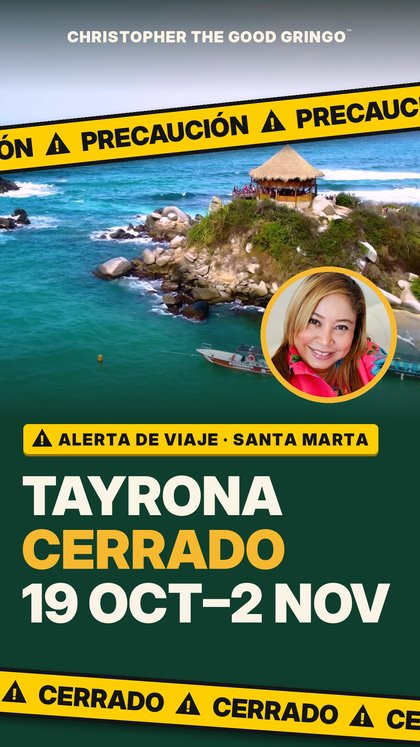
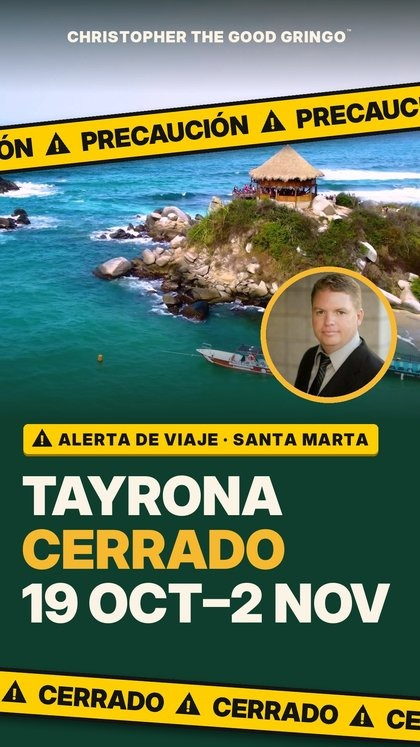
Remove Mabys and Nequi from the site
Spanish version shows Christopher's info, photo and contact. Removed her
team card, photo, Porthos mention and the Nequi payment sections; swapped
her face out of the Spanish Tayrona thumbnail.

Claude-Session: https://claude.ai/code/session_01LosVhuhA7YJBGxLwPWcAso

Changed region(s): [[0.619, 0.3695, 0.9286, 0.5542], [0.9595, 0.9545, 0.9905, 0.9853], [0.1857, 0.9237, 0.2167, 0.9545]]

diff --git a/index.html b/index.html
@@ -93,8 +93,8 @@ header .btn { padding: 9px 16px; font-size: .9rem; }
 
 /* Sections */
 section.block { padding-block: 72px; }
-#nequi-en, #paypal-es { padding-top: 8px; }
-#paypal, #nequi { padding-bottom: 32px; }
+
+
 .hsoc { width: 38px; height: 38px; border-radius: 10px; background: var(--cordillera); color: var(--mango); border: 1px solid rgba(245, 184, 46, .45); }
 .hsoc:hover { background: var(--mango); color: var(--cordillera); }
 .hsoc svg { width: 20px; height: 20px; }
@@ -204,11 +204,11 @@ a.claim:hover { border-color: var(--mango); background: rgba(245, 184, 46, .10);
 .c button:hover { border-color: var(--mango); }
 .contact .cards { grid-template-columns: repeat(3, minmax(0, 1fr)); }
 @media (max-width: 1100px) { .contact .cards { grid-template-columns: repeat(2, minmax(0, 1fr)); } }
-#v-email, #v-email2 { font-size: .86rem; }
+#v-email { font-size: .86rem; }
 .ph { display: grid; gap: 4px; padding-top: 8px; }
 .ph + .ph { border-top: 1px dashed var(--line); margin-top: 6px; padding-top: 12px; }
 html[lang="es"] .ph-es { order: 1; border-top: 0; margin-top: 0; padding-top: 8px; }
-html[lang="es"] .ph-en, html[lang="es"] [data-only="en"] { display: none; }
+html[lang="es"] [data-only="en"] { display: none; }
 html:not([lang="es"]) .ph-es, html:not([lang="es"]) [data-only="es"] { display: none; }
 html:not([lang="es"]) .ph-en { border-top: 0; margin-top: 0; }
 html[lang="es"] .vid, html[lang="es"] .shorts a { pointer-events: none; position: relative; }
@@ -234,18 +234,18 @@ html[lang="es"] .vid::after, html[lang="es"] .shorts a::after { content: "Próxi
 .act-gold { background: var(--mango); color: var(--cordillera); border-color: var(--mango); }
 .act:hover { border-color: var(--mango); }
 .soon-pill { justify-self: start; margin-top: 6px; padding: 8px 16px; font-size: .85rem; font-weight: 700; border-radius: 999px; border: 1px dashed var(--line); color: var(--muted); }
-.nequi .pay { display: grid; grid-template-columns: minmax(0,1.1fr) minmax(0,1fr); gap: 16px; align-items: start; }
-.nequi .num { border: 1px solid var(--line); border-radius: var(--r); padding: 22px; display: grid; gap: 8px; }
-.nequi .num .val { font-size: 1.9rem; font-weight: 800; letter-spacing: .02em; }
-.nequi .num p { margin: 0; opacity: .85; }
-.nequi .num button { justify-self: start; font: 700 .9rem var(--body); background: var(--mango); color: var(--cordillera); border: 0; border-radius: 999px; padding: 10px 20px; cursor: pointer; }
-.nequi .acts button { background: transparent; color: var(--fg); border: 1px solid var(--line); font-size: .85rem; padding: 8px 16px; }
-.nequi .why { display: grid; gap: 16px; }
-.nequi .why > div { border: 1px solid var(--line); border-radius: var(--r); padding: 20px; }
-.nequi .why h3 { margin: 6px 0 6px; font-size: 1.15rem; }
-.nequi .why p { margin: 0; opacity: .85; }
-.nequi .why .eyebrow { color: var(--arepa); }
-@media (max-width: 800px) { .nequi .pay { grid-template-columns: 1fr; } }
+.pay-sec .pay { display: grid; grid-template-columns: minmax(0,1.1fr) minmax(0,1fr); gap: 16px; align-items: start; }
+.pay-sec .num { border: 1px solid var(--line); border-radius: var(--r); padding: 22px; display: grid; gap: 8px; }
+.pay-sec .num .val { font-size: 1.9rem; font-weight: 800; letter-spacing: .02em; }
+.pay-sec .num p { margin: 0; opacity: .85; }
+.pay-sec .num button { justify-self: start; font: 700 .9rem var(--body); background: var(--mango); color: var(--cordillera); border: 0; border-radius: 999px; padding: 10px 20px; cursor: pointer; }
+.pay-sec .acts button { background: transparent; color: var(--fg); border: 1px solid var(--line); font-size: .85rem; padding: 8px 16px; }
+.pay-sec .why { display: grid; gap: 16px; }
+.pay-sec .why > div { border: 1px solid var(--line); border-radius: var(--r); padding: 20px; }
+.pay-sec .why h3 { margin: 6px 0 6px; font-size: 1.15rem; }
+.pay-sec .why p { margin: 0; opacity: .85; }
+.pay-sec .why .eyebrow { color: var(--arepa); }
+@media (max-width: 800px) { .pay-sec .pay { grid-template-columns: 1fr; } }
 @media (max-width: 800px) { .cards, .contact .cards { grid-template-columns: 1fr; } }
 footer a { color: var(--band-fg); }
 
@@ -274,7 +274,7 @@ footer b { color: var(--band-fg); font-family: var(--display); }
       <span>The Good Gringo™</span>
     </a>
     <nav class="links" aria-label="Sections">
-      <a data-only="es" href="#proximamente">Videos</a><a data-only="es" href="#nequi">Pagos</a><a data-only="en" href="#videos" data-i18n="t1">Videos</a><a data-only="en" href="#guide" data-i18n="t2">Guides</a><a data-only="en" href="#merch" data-i18n="t3">Merch</a><a data-only="en" href="#paypal">Payments</a><a href="#about" data-i18n="t4">About</a><a data-only="en" href="/team/">Team</a><a data-only="es" href="/team/">Equipo</a><a href="#contact" data-i18n="t5">Contact</a>
+      <a data-only="es" href="#proximamente">Videos</a><a data-only="es" href="#paypal-es">Pagos</a><a data-only="en" href="#videos" data-i18n="t1">Videos</a><a data-only="en" href="#guide" data-i18n="t2">Guides</a><a data-only="en" href="#merch" data-i18n="t3">Merch</a><a data-only="en" href="#paypal">Payments</a><a href="#about" data-i18n="t4">About</a><a data-only="en" href="/team/">Team</a><a data-only="es" href="/team/">Equipo</a><a href="#contact" data-i18n="t5">Contact</a>
     </nav>
     <div class="hact">
       <div class="lang" role="group" aria-label="Language / Idioma"><button type="button" data-lang="en">EN</button><button type="button" data-lang="es">ES</button></div>
@@ -442,7 +442,7 @@ footer b { color: var(--band-fg); font-family: var(--display); }
     </div>
   </section>
 
-  <section class="block nequi" id="paypal" data-only="en">
+  <section class="block pay-sec" id="paypal" data-only="en">
     <div class="wrap">
       <div class="head">
         <div><div class="eyebrow">Payments · PayPal</div><h2>Pay or support with PayPal</h2></div>
@@ -462,58 +462,18 @@ footer b { color: var(--band-fg); font-family: var(--display); }
     </div>
   </section>
 
-  <section class="block nequi" id="nequi-en" data-only="en" lang="es">
-    <div class="wrap">
-      <div class="head">
-        <div><div class="eyebrow">Pagos · Llave Bre-B</div><h2>Paga o apoya con Nequi o tu banco</h2></div>
-      </div>
-      <div class="pay">
-        <div class="num">
-          <span class="ico" aria-hidden="true"><svg viewBox="0 0 24 24" width="24" height="24" fill="none" stroke="currentColor" stroke-width="2" stroke-linecap="round" stroke-linejoin="round"><rect x="6" y="2.5" width="12" height="19" rx="2.5"/><path d="M10.5 18.5h3"/><path d="M14 8.2c-.5-.7-1.2-1-2-1-1.1 0-2 .6-2 1.5 0 2 4 1.2 4 3.2 0 .9-.9 1.6-2 1.6-.9 0-1.7-.4-2.1-1.1M12 6v1.2M12 13.5v1.2"/></svg></span>
-          <span class="eyebrow" style="color:var(--arepa)">Llave Bre-B · Nu</span>
-          <span class="val" id="v-nequi-en">52382417</span>
-          <p>A nombre de <strong>Mabys Sequea-Quintana</strong>. Desde Nequi, Nu o tu banco, elige enviar con <strong>llave Bre-B</strong> y escribe esta llave. El botón abre Nequi.</p>
-          <div class="acts"><a class="act act-gold" href="https://www.nequi.com.co/" target="_blank" rel="noopener">Pagar con Nequi</a><button type="button" class="act" data-copy="v-nequi-en">Copiar llave</button></div>
-        </div>
-        <div class="why">
-          <div><span class="eyebrow">Servicios</span><h3>¿Vas a pagar una factura?</h3><p>Si vas a pagar una factura por un servicio, envía el pago a esta llave y escribe tu nombre o el número de la factura en el mensaje.</p></div>
-          <div><h3 style="margin-top:0">¿Quieres apoyar el canal?</h3><p>Si solo quieres hacer una donación a Christopher The Good Gringo™, también puedes usar esta llave. ¡Agradecemos cada peso!</p></div>
-        </div>
-      </div>
-    </div>
-  </section>
 
-  <section class="block nequi" id="nequi" data-only="es">
-    <div class="wrap">
-      <div class="head">
-        <div><div class="eyebrow">Pagos · Llave Bre-B</div><h2>Paga o apoya con Nequi o tu banco</h2></div>
-      </div>
-      <div class="pay">
-        <div class="num">
-          <span class="ico" aria-hidden="true"><svg viewBox="0 0 24 24" width="24" height="24" fill="none" stroke="currentColor" stroke-width="2" stroke-linecap="round" stroke-linejoin="round"><rect x="6" y="2.5" width="12" height="19" rx="2.5"/><path d="M10.5 18.5h3"/><path d="M14 8.2c-.5-.7-1.2-1-2-1-1.1 0-2 .6-2 1.5 0 2 4 1.2 4 3.2 0 .9-.9 1.6-2 1.6-.9 0-1.7-.4-2.1-1.1M12 6v1.2M12 13.5v1.2"/></svg></span>
-          <span class="eyebrow" style="color:var(--arepa)">Llave Bre-B · Nu</span>
-          <span class="val" id="v-nequi">52382417</span>
-          <p>A nombre de <strong>Mabys Sequea-Quintana</strong>. Desde Nequi, Nu o tu banco, elige enviar con <strong>llave Bre-B</strong> y escribe esta llave. El botón abre Nequi.</p>
-          <div class="acts"><a class="act act-gold" href="https://www.nequi.com.co/" target="_blank" rel="noopener">Pagar con Nequi</a><button type="button" class="act" data-copy="v-nequi">Copiar llave</button></div>
-        </div>
-        <div class="why">
-          <div><span class="eyebrow">Servicios</span><h3>¿Vas a pagar una factura?</h3><p>Si vas a pagar una factura por un servicio, envía el pago a esta llave y escribe tu nombre o el número de la factura en el mensaje.</p></div>
-          <div><h3 style="margin-top:0">¿Quieres apoyar el canal?</h3><p>Si solo quieres hacer una donación a Christopher The Good Gringo™, también puedes usar esta llave. ¡Agradecemos cada peso!</p></div>
-        </div>
-      </div>
-    </div>
-  </section>
 
-  <section class="block nequi" id="paypal-es" data-only="es">
+  <section class="block pay-sec" id="paypal-es" data-only="es">
     <div class="wrap">
       <div class="head">
-        <div><div class="eyebrow">Desde cualquier país · PayPal</div><h2>Paga o apoya con PayPal</h2></div>
+        <div><div class="eyebrow">Pagos · PayPal</div><h2>Paga o apoya con PayPal</h2></div>
       </div>
       <div class="pay">
         <div class="num">
           <span class="ico" aria-hidden="true"><svg viewBox="0 0 24 24" width="24" height="24" fill="none" stroke="currentColor" stroke-width="2" stroke-linecap="round" stroke-linejoin="round"><rect x="6" y="2.5" width="12" height="19" rx="2.5"/><path d="M10.5 18.5h3"/><path d="M14 8.2c-.5-.7-1.2-1-2-1-1.1 0-2 .6-2 1.5 0 2 4 1.2 4 3.2 0 .9-.9 1.6-2 1.6-.9 0-1.7-.4-2.1-1.1M12 6v1.2M12 13.5v1.2"/></svg></span>
           <span class="eyebrow" style="color:var(--arepa)">Enlace de PayPal</span>
-          <p>Si estás en otro país o no tienes Nequi, usa PayPal. Toca el botón, escribe el monto y envía.</p>
+          <p>Toca el botón para abrir PayPal, escribe el monto y envía.</p>
           <div class="acts"><a class="act act-gold" href="https://paypal.me/JamesKesl" target="_blank" rel="noopener">Pagar con PayPal</a></div>
         </div>
         <div class="why">
@@ -530,18 +490,18 @@ footer b { color: var(--band-fg); font-family: var(--display); }
         <div class="eyebrow" style="color: var(--arepa); margin-bottom: 8px;" data-i18n="t65">About</div>
         <div class="about-copy" data-only="en">
           <h2 style="font-size: clamp(2rem, 4.4vw, 3rem); font-weight: 800; margin-bottom: 18px;">Hi, I'm Christopher</h2>
-          <p class="lead">I grew up in Arkansas, spent 25 years helping families protect their money, and now I live in Santa Marta, Colombia, with my wife, Mabys.</p>
+          <p class="lead">I grew up in Arkansas, spent 25 years helping families protect their money, and now I live in Santa Marta, Colombia.</p>
           <p>Before the camera, I was a financial advisor for 15 years and a life insurance agent for 10. Along the way I lived in Illinois, Indiana, Arizona and, most recently, Texas. That work taught me to do my homework, look out for people, and tell it straight.</p>
           <p>In February 2022 I moved to Colombia for the people: the warmth, the kindness, and the way strangers treat you like family. I picked Santa Marta for the heat. Yes, I actually love the heat. Ask me again at 2 p.m. in August.</p>
-          <p>About three and a half years ago, I met Mabys on Colombian Cupid. She's a lawyer who spent most of her career in family law and now works in immigration law, so she knows how things really work here, in Spanish and on paper.</p>
           <p>I started Christopher The Good Gringo™ for one reason: to help people. Whether you're thinking about moving, traveling, dating or just curious, I want you to walk away with the knowledge to truly enjoy Latin America: real places, honest prices, the safety basics and respectful tips.</p>
         </div>
         <div class="about-copy" data-only="es">
-          <h2 style="font-size: clamp(2rem, 4.4vw, 3rem); font-weight: 800; margin-bottom: 18px;">Hola, soy Mabys</h2>
-          <p class="lead">Soy samaria de segunda generación, abogada con 25 años de experiencia y esposa de Christopher.</p>
-          <p>Durante la mayor parte de mi carrera he trabajado en derecho de familia, y hoy me dedico al derecho migratorio: visas, residencia, trámites de matrimonio para extranjeros y mucho más. Lo que más me motiva es ayudar a las personas a defender sus derechos cuando han sido vulnerados. Fuera del trabajo, soy muy activa en mi iglesia.</p>
-          <p>Me uno a Christopher The Good Gringo™ porque creo en construir un puente entre culturas y en ayudar a las personas a moverse en temas complejos con confianza y claridad. Quiero que quienes nos ven tengan una perspectiva real y honesta de cómo funcionan las cosas, y que se sientan con la seguridad de que sus derechos y su tranquilidad van primero.</p>
-          <p>¿Tienes una pregunta, una colaboración o necesitas orientación? Escríbeme por WhatsApp o por correo; con gusto te atiendo en español.</p>
+          <h2 style="font-size: clamp(2rem, 4.4vw, 3rem); font-weight: 800; margin-bottom: 18px;">Hola, soy Christopher</h2>
+          <p class="lead">Crecí en Arkansas, pasé 25 años ayudando a familias a proteger su dinero y hoy vivo en Santa Marta, Colombia.</p>
+          <p>Antes de la cámara fui asesor financiero durante 15 años y agente de seguros de vida durante 10. En el camino viví en Illinois, Indiana, Arizona y, más recientemente, Texas. Ese trabajo me enseñó a investigar bien, a cuidar a la gente y a hablar claro.</p>
+          <p>En febrero de 2022 me mudé a Colombia por su gente: la calidez, la amabilidad y la forma en que te tratan como familia. Elegí Santa Marta por el calor. Sí, de verdad me encanta el calor.</p>
+          <p>Creé Christopher The Good Gringo™ por una sola razón: ayudar a las personas. Lugares reales, precios honestos, lo básico de seguridad y consejos respetuosos para disfrutar de verdad Latinoamérica.</p>
+          <p>¿Tienes una pregunta o una colaboración? Escríbeme por WhatsApp o por correo.</p>
         </div>
       </div>
       <dl class="facts" data-only="en">
@@ -552,10 +512,10 @@ footer b { color: var(--band-fg); font-family: var(--display); }
         <div><dt>Motto</dt><dd>Life in LATAM, done right</dd></div>
       </dl>
       <dl class="facts" data-only="es">
-        <div><dt>De</dt><dd>Santa Marta (segunda generación)</dd></div>
-        <div><dt>Profesión</dt><dd>Abogada · 25 años</dd></div>
-        <div><dt>Hoy</dt><dd>Derecho migratorio</dd></div>
-        <div><dt>Idioma</dt><dd>Español</dd></div>
+        <div><dt>Creció en</dt><dd>Arkansas</dd></div>
+        <div><dt>Vive en</dt><dd>Santa Marta, Colombia</dd></div>
+        <div><dt>Antes de esto</dt><dd>15 años asesor financiero · 10 años seguros de vida</dd></div>
+        <div><dt>Viaje favorito</dt><dd>Bogotá → Santa Marta en bus, 20 horas</dd></div>
         <div><dt>Lema</dt><dd>Vivir en LATAM, como debe ser</dd></div>
       </dl>
     </div>
@@ -568,8 +528,8 @@ footer b { color: var(--band-fg); font-family: var(--display); }
         <p data-i18n="t81">Collaborations, sponsorships, venue features or a question about a trip.</p>
       </div>
       <div class="cards">
-        <div class="c"><span class="ico" aria-hidden="true"><svg viewBox="0 0 24 24" width="24" height="24" fill="none" stroke="currentColor" stroke-width="2" stroke-linecap="round" stroke-linejoin="round"><rect x="3" y="5" width="18" height="14" rx="2"/><path d="M3 7l9 6 9-6"/></svg></span><span class="eyebrow" data-i18n="t82">Email</span><div class="ph ph-en"><span class="lang-tag" data-i18n="pen">English</span><span class="val" id="v-email">christopher@christopherthegoodgringo.com</span><div class="acts"><a class="act act-gold" href="mailto:christopher@christopherthegoodgringo.com" data-i18n="pem">Send email</a><button type="button" data-copy="v-email" data-i18n="pcp">Copy</button></div></div><div class="ph ph-es"><span class="lang-tag" data-i18n="pes">Español</span><span class="val" id="v-email2">mabys@christopherthegoodgringo.com</span><div class="acts"><a class="act act-gold" href="mailto:mabys@christopherthegoodgringo.com" data-i18n="pem">Send email</a><button type="button" data-copy="v-email2" data-i18n="pcp">Copy</button></div></div></div>
-        <div class="c"><span class="ico" aria-hidden="true"><svg viewBox="0 0 24 24" width="24" height="24" fill="none" stroke="currentColor" stroke-width="2" stroke-linecap="round" stroke-linejoin="round"><path d="M21 12a8.5 8.5 0 0 1-12.4 7.6L3.5 21l1.4-4.9A8.5 8.5 0 1 1 21 12z"/><circle cx="8.5" cy="12" r=".6" fill="currentColor"/><circle cx="12.3" cy="12" r=".6" fill="currentColor"/><circle cx="16" cy="12" r=".6" fill="currentColor"/></svg></span><span class="eyebrow" data-i18n="t84">WhatsApp · Text · Call</span><div class="ph ph-en"><span class="lang-tag" data-i18n="pen">English</span><span class="val" id="v-wa">+1 (305) 440-5175</span><div class="acts"><a class="act act-gold" href="https://wa.me/13054405175" target="_blank" rel="noopener">WhatsApp</a><a class="act" href="sms:+13054405175" data-i18n="ptx">Text</a><a class="act" href="tel:+13054405175" data-i18n="pca">Call</a><button type="button" data-copy="v-wa" data-i18n="pcp">Copy</button></div></div><div class="ph ph-es"><span class="lang-tag" data-i18n="pes">Español</span><span class="val" id="v-wa2">+57 300 383 1359</span><div class="acts"><a class="act act-gold" href="https://wa.me/573003831359" target="_blank" rel="noopener">WhatsApp</a><a class="act" href="sms:+573003831359" data-i18n="ptx">Text</a><a class="act" href="tel:+573003831359" data-i18n="pca">Call</a><button type="button" data-copy="v-wa2" data-i18n="pcp">Copy</button></div></div></div>
+        <div class="c"><span class="ico" aria-hidden="true"><svg viewBox="0 0 24 24" width="24" height="24" fill="none" stroke="currentColor" stroke-width="2" stroke-linecap="round" stroke-linejoin="round"><rect x="3" y="5" width="18" height="14" rx="2"/><path d="M3 7l9 6 9-6"/></svg></span><span class="eyebrow" data-i18n="t82">Email</span><div class="ph ph-en"><span class="lang-tag" data-i18n="pen">English</span><span class="val" id="v-email">christopher@christopherthegoodgringo.com</span><div class="acts"><a class="act act-gold" href="mailto:christopher@christopherthegoodgringo.com" data-i18n="pem">Send email</a><button type="button" data-copy="v-email" data-i18n="pcp">Copy</button></div></div></div>
+        <div class="c"><span class="ico" aria-hidden="true"><svg viewBox="0 0 24 24" width="24" height="24" fill="none" stroke="currentColor" stroke-width="2" stroke-linecap="round" stroke-linejoin="round"><path d="M21 12a8.5 8.5 0 0 1-12.4 7.6L3.5 21l1.4-4.9A8.5 8.5 0 1 1 21 12z"/><circle cx="8.5" cy="12" r=".6" fill="currentColor"/><circle cx="12.3" cy="12" r=".6" fill="currentColor"/><circle cx="16" cy="12" r=".6" fill="currentColor"/></svg></span><span class="eyebrow" data-i18n="t84">WhatsApp · Text · Call</span><div class="ph ph-en"><span class="lang-tag" data-i18n="pen">English</span><span class="val" id="v-wa">+1 (305) 440-5175</span><div class="acts"><a class="act act-gold" href="https://wa.me/13054405175" target="_blank" rel="noopener">WhatsApp</a><a class="act" href="sms:+13054405175" data-i18n="ptx">Text</a><a class="act" href="tel:+13054405175" data-i18n="pca">Call</a><button type="button" data-copy="v-wa" data-i18n="pcp">Copy</button></div></div></div>
         <div class="c"><span class="ico" aria-hidden="true"><svg viewBox="0 0 24 24" width="24" height="24" fill="none" stroke="currentColor" stroke-width="2" stroke-linecap="round" stroke-linejoin="round"><circle cx="12" cy="12" r="9"/><path d="M10 8.5l5.5 3.5-5.5 3.5z" fill="currentColor"/></svg></span><span class="eyebrow">YouTube</span><span class="val">Christopher The Good Gringo™</span><a class="btn btn-gold" style="justify-self:start; margin-top:6px; padding:8px 16px; font-size:.85rem" href="https://www.youtube.com/results?search_query=Christopher+The+Good+Gringo" target="_blank" rel="noopener" data-i18n="t89">Open YouTube</a></div>
         <div class="c"><span class="ico" aria-hidden="true"><svg viewBox="0 0 24 24" width="24" height="24" fill="none" stroke="currentColor" stroke-width="2" stroke-linecap="round" stroke-linejoin="round"><rect x="3" y="7" width="18" height="13" rx="3"/><path d="M8.5 7l1.5-3h4l1.5 3"/><circle cx="12" cy="13.5" r="3.5"/></svg></span><span class="eyebrow">Instagram</span><span class="val">@christopherthegoodgringo</span><a class="btn btn-gold" style="justify-self:start; margin-top:6px; padding:8px 16px; font-size:.85rem" href="https://www.instagram.com/christopherthegoodgringo/" target="_blank" rel="noopener" data-i18n="t90">Follow on Instagram</a></div>
         <div class="c"><span class="ico" aria-hidden="true"><svg viewBox="0 0 24 24" width="24" height="24" fill="none" stroke="currentColor" stroke-width="2" stroke-linecap="round" stroke-linejoin="round"><circle cx="9" cy="8" r="3.5"/><path d="M2.5 20c0-3.6 2.9-6 6.5-6s6.5 2.4 6.5 6"/><circle cx="17" cy="9" r="2.5"/><path d="M16 14.2c3 .2 5.5 2.2 5.5 5.3"/></svg></span><span class="eyebrow">Facebook</span><span class="val">@christopherthegoodgringo</span><span class="soon-pill" data-i18n="t91">Link coming soon</span></div>
@@ -619,7 +579,7 @@ document.querySelectorAll('button[data-copy]').forEach(function (btn) {
 });
 
 (function () {
-  var ES = {"pem": "Enviar correo", "pen": "English", "pes": "Español", "ptx": "Mensaje", "pca": "Llamar", "pcp": "Copiar", "t1": "Videos", "t2": "Guías", "t3": "Tienda", "t4": "Sobre mí", "t5": "Contacto", "t6": "Suscríbete", "t7": "Vivir en LATAM, como debe ser.", "t8": "Mabys comparte lugares reales, precios honestos y consejos respetuosos sobre viajes, cultura y más en Latinoamérica.", "t9": "Ver en YouTube", "t10": "Recibe las guías gratis", "t11": "También en Instagram, Facebook y TikTok", "t12": "Contenido nuevo cada día", "t13": "El respeto <span class=\"ok\">primero</span>", "t14": "Tratamos a la gente y los lugares que visitamos como nos gustaría que nos trataran, en cada video.", "t15": "Lugares reales, <span class=\"ok\">verificados</span>", "t16": "Cada hotel, playa y dato está investigado, y las fotos de los negocios se usan con permiso.", "t17": "Consejos que sí sirven", "t18": "Precios justos, seguridad, estafas que evitar y frases útiles para el viaje.", "t19": "Últimos videos", "t20": "Planes para copiar", "t21": "Pronto publicaremos estos videos en español. Suscríbete para no perdértelos.", "t22": "El fin de semana romántico perfecto en Cartagena", "t23": "El fin de semana romántico perfecto en Santa Marta", "t24": "Una primera cita en Medellín, bien hecha", "t25": "¿Vas a comprar esmeraldas en Colombia? Que no te estafen", "t26": "Pesca tu propia cena en Taganga", "t27": "Shorts rápidos", "t28": "20 horas en bus por Colombia", "t29": "¿El pueblo más pequeño de Colombia?", "t30": "La historia de Colombia en 30 segundos", "t31": "Mira esto antes de comprar esmeraldas", "t32": "Tayrona cierra: que no te tome por sorpresa", "t33": "Guías gratis de 69 páginas", "t34": "Dos guías gratis, invita la casa", "t35": "Pronto tendremos estas guías gratis en español. Mientras tanto, están disponibles en inglés en el sitio en inglés.", "t36": "Cómo comprar esmeraldas en Colombia", "t37": "Detecta falsas, sintéticas y tratamientos fuertes", "t38": "Lee y verifica un certificado de laboratorio en cinco minutos", "t39": "Cuánto cuestan de verdad las esmeraldas y cómo negociar con respeto", "t40": "Frases para la joyería y la devolución de impuestos para turistas", "t41": "Pesca en el Caribe, el Pacífico, la Amazonía y la Orinoquía", "t42": "Adónde ir y qué pica en cada temporada", "t43": "Las reglas actuales y cómo pescar con respeto", "t44": "Vocabulario de pesca para el bote y el mercado", "t45": "Comenta EMERALDS", "t46": "en el Short de las esmeraldas. Gratis para las primeras cinco personas.", "t47": "Abrir el Short →", "t48": "Pesca en Colombia", "t49": "Comenta FISHING", "t50": "en el Short de pesca. Gratis para todos los que comenten.", "t51": "Tienda", "t52": "Vístete como un buen gringo", "t53": "La primera colección está en camino. Suscríbete en YouTube para enterarte del lanzamiento.", "t54": "Camiseta clásica", "t55": "Esqueleto Caribe", "t56": "Pantaloneta Cordillera", "t57": "Vaso térmico", "t58": "Llavero", "t59": "Blanca, estampado frontal", "t60": "Toda blanca, logo en la pierna", "t61": "20 oz, blanco", "t62": "Doble cara, reverso blanco", "t63": "Blanco", "t64": "Próximamente", "t65": "Sobre mí", "t66": "Hola, soy Mabys", "t67": "Soy Mabys Sequea-Quintana y me uno a The Good Gringo para compartir la aventura en español.", "t68": "The Good Gringo se trata de vivir aquí de la manera correcta: con curiosidad, con respeto y sin dejarse engañar. Eso significa lugares reales que puedes reservar, precios honestos y lo básico de seguridad.", "t69": "¿Tienes una pregunta, una colaboración o quieres que visitemos tu negocio? Escríbeme por WhatsApp o por correo, con gusto te atiendo en español.", "t70": "Vive en", "t71": "Temas", "t72": "Contenido nuevo", "t73": "Viaje favorito", "t74": "Lema", "t75": "Viajes · Cultura · Citas y más", "t76": "Cada día", "t77": "Bogotá → Santa Marta en bus, 20 horas", "t78": "Vivir en LATAM, como debe ser", "t79": "Contacto", "t80": "Escríbeme", "t81": "Colaboraciones, patrocinios, reseñas de negocios o una pregunta sobre un viaje.", "t82": "Correo", "t83": "Escríbeme", "t84": "WhatsApp · Mensaje · Llamada", "t85": "Mensaje", "t86": "Llamar", "t87": "Copiar", "t88": "Copiar", "t89": "Abrir YouTube", "t90": "Seguir en Instagram", "t91": "Enlace próximamente", "t92": "<b>Christopher The Good Gringo™</b> · Vivir en LATAM, como debe ser", "hey": "Mabys", "lng": "Idioma", "lngv": "Español"};
+  var ES = {"pem": "Enviar correo", "pen": "English", "pes": "Español", "ptx": "Mensaje", "pca": "Llamar", "pcp": "Copiar", "t1": "Videos", "t2": "Guías", "t3": "Tienda", "t4": "Sobre mí", "t5": "Contacto", "t6": "Suscríbete", "t7": "Vivir en LATAM, como debe ser.", "t8": "Un estadounidense que vive en Latinoamérica. Lugares reales, precios honestos y consejos respetuosos sobre viajes, cultura, citas y más, empezando por Colombia.", "t9": "Ver en YouTube", "t10": "Recibe las guías gratis", "t11": "También en Instagram, Facebook y TikTok", "t12": "Contenido nuevo cada día", "t13": "El respeto <span class=\"ok\">primero</span>", "t14": "Tratamos a la gente y los lugares que visitamos como nos gustaría que nos trataran, en cada video.", "t15": "Lugares reales, <span class=\"ok\">verificados</span>", "t16": "Cada hotel, playa y dato está investigado, y las fotos de los negocios se usan con permiso.", "t17": "Consejos que sí sirven", "t18": "Precios justos, seguridad, estafas que evitar y frases útiles para el viaje.", "t19": "Últimos videos", "t20": "Planes para copiar", "t21": "Pronto publicaremos estos videos en español. Suscríbete para no perdértelos.", "t22": "El fin de semana romántico perfecto en Cartagena", "t23": "El fin de semana romántico perfecto en Santa Marta", "t24": "Una primera cita en Medellín, bien hecha", "t25": "¿Vas a comprar esmeraldas en Colombia? Que no te estafen", "t26": "Pesca tu propia cena en Taganga", "t27": "Shorts rápidos", "t28": "20 horas en bus por Colombia", "t29": "¿El pueblo más pequeño de Colombia?", "t30": "La historia de Colombia en 30 segundos", "t31": "Mira esto antes de comprar esmeraldas", "t32": "Tayrona cierra: que no te tome por sorpresa", "t33": "Guías gratis de 69 páginas", "t34": "Dos guías gratis, invita la casa", "t35": "Pronto tendremos estas guías gratis en español. Mientras tanto, están disponibles en inglés en el sitio en inglés.", "t36": "Cómo comprar esmeraldas en Colombia", "t37": "Detecta falsas, sintéticas y tratamientos fuertes", "t38": "Lee y verifica un certificado de laboratorio en cinco minutos", "t39": "Cuánto cuestan de verdad las esmeraldas y cómo negociar con respeto", "t40": "Frases para la joyería y la devolución de impuestos para turistas", "t41": "Pesca en el Caribe, el Pacífico, la Amazonía y la Orinoquía", "t42": "Adónde ir y qué pica en cada temporada", "t43": "Las reglas actuales y cómo pescar con respeto", "t44": "Vocabulario de pesca para el bote y el mercado", "t45": "Comenta EMERALDS", "t46": "en el Short de las esmeraldas. Gratis para las primeras cinco personas.", "t47": "Abrir el Short →", "t48": "Pesca en Colombia", "t49": "Comenta FISHING", "t50": "en el Short de pesca. Gratis para todos los que comenten.", "t51": "Tienda", "t52": "Vístete como un buen gringo", "t53": "La primera colección está en camino. Suscríbete en YouTube para enterarte del lanzamiento.", "t54": "Camiseta clásica", "t55": "Esqueleto Caribe", "t56": "Pantaloneta Cordillera", "t57": "Vaso térmico", "t58": "Llavero", "t59": "Blanca, estampado frontal", "t60": "Toda blanca, logo en la pierna", "t61": "20 oz, blanco", "t62": "Doble cara, reverso blanco", "t63": "Blanco", "t64": "Próximamente", "t65": "Sobre mí", "t66": "Hola, soy Christopher", "t67": "Soy Christopher, de Arkansas, y vivo en Santa Marta, Colombia.", "t68": "The Good Gringo se trata de vivir aquí de la manera correcta: con curiosidad, con respeto y sin dejarse engañar. Eso significa lugares reales que puedes reservar, precios honestos y lo básico de seguridad.", "t69": "¿Tienes una pregunta, una colaboración o quieres que visitemos tu negocio? Escríbeme por WhatsApp o por correo, con gusto te atiendo en español.", "t70": "Vive en", "t71": "Temas", "t72": "Contenido nuevo", "t73": "Viaje favorito", "t74": "Lema", "t75": "Viajes · Cultura · Citas y más", "t76": "Cada día", "t77": "Bogotá → Santa Marta en bus, 20 horas", "t78": "Vivir en LATAM, como debe ser", "t79": "Contacto", "t80": "Escríbeme", "t81": "Colaboraciones, patrocinios, reseñas de negocios o una pregunta sobre un viaje.", "t82": "Correo", "t83": "Escríbeme", "t84": "WhatsApp · Mensaje · Llamada", "t85": "Mensaje", "t86": "Llamar", "t87": "Copiar", "t88": "Copiar", "t89": "Abrir YouTube", "t90": "Seguir en Instagram", "t91": "Enlace próximamente", "t92": "<b>Christopher The Good Gringo™</b> · Vivir en LATAM, como debe ser", "hey": "Christopher", "lng": "Idioma", "lngv": "Español"};
   var EN = {};
   var nodes = document.querySelectorAll('[data-i18n]');
   nodes.forEach(function (el) { EN[el.getAttribute('data-i18n')] = el.innerHTML; });
@@ -636,11 +596,6 @@ document.querySelectorAll('button[data-copy]').forEach(function (btn) {
       if (!im.getAttribute('data-en-src')) im.setAttribute('data-en-src', im.getAttribute('src'));
       im.src = lang === 'es' ? im.getAttribute('data-es-src') : im.getAttribute('data-en-src');
     });
-    var pic = document.querySelector('.portrait img');
-    if (pic) {
-      pic.src = lang === 'es' ? 'img/head_mabys.jpg' : 'img/head.jpg';
-      pic.alt = lang === 'es' ? 'Mabys Sequea-Quintana, The Good Gringo' : 'Christopher, host of The Good Gringo';
-    }
     document.querySelectorAll('.lang button').forEach(function (b) {
       b.setAttribute('aria-pressed', b.getAttribute('data-lang') === lang ? 'true' : 'false');
     });

diff --git a/team/index.html b/team/index.html
@@ -157,17 +157,9 @@ html[lang="mix"] .es-first [data-l="es"] { display: inline !important; }
       <img src="../img/head.jpg" alt="Christopher">
       <h2>Christopher</h2>
       <div class="role"><span data-l="en">Founder · Host</span><span data-l="es">Fundador · Presentador</span></div>
-      <div class="langs"><span>English</span></div>
-      <p><span data-l="en">From Arkansas, 25 years in finance and insurance, now living in Santa Marta. Hosts the English videos.</span><span data-l="es">De Arkansas, 25 años en finanzas y seguros, ahora vive en Santa Marta. Presenta los videos en inglés.</span></p>
+      <div class="langs"><span>English</span><span>Español</span></div>
+      <p><span data-l="en">From Arkansas, 25 years in finance and insurance, now living in Santa Marta. Hosts the videos in English and Spanish.</span><span data-l="es">De Arkansas, 25 años en finanzas y seguros, ahora vive en Santa Marta. Presenta los videos en inglés y en español.</span></p>
       <div class="acts"><a class="act act-gold" href="https://wa.me/13054405175" target="_blank" rel="noopener">WhatsApp</a><a class="act" href="mailto:christopher@christopherthegoodgringo.com">Email</a></div>
-    </div>
-    <div class="person es-first">
-      <img src="../img/head_mabys.jpg" alt="Mabys Sequea-Quintana">
-      <h2>Mabys</h2>
-      <div class="role"><span data-l="en">Co-host · Lawyer</span><span data-l="es">Copresentadora · Abogada</span></div>
-      <div class="langs"><span>Español</span></div>
-      <p><span data-l="en">A second-generation Santa Marta native and a lawyer for 25 years in family and immigration law. Hosts the Spanish videos.</span><span data-l="es">De Santa Marta, samaria de segunda generación, y abogada por 25 años en derecho de familia y migración. Presenta los videos en español.</span></p>
-      <div class="acts"><a class="act act-gold" href="https://wa.me/573003831359" target="_blank" rel="noopener">WhatsApp</a><a class="act" href="mailto:mabys@christopherthegoodgringo.com"><span data-l="en">Email</span><span data-l="es">Correo</span></a></div>
     </div>
     <div class="person es-first">
       <div class="ini" role="img" aria-label="Daniel Felipe">DF</div>

diff --git a/spots/porthos/index.html b/spots/porthos/index.html
@@ -199,7 +199,7 @@ html[lang="es"] [data-l="en"], html:not([lang="es"]) [data-l="es"] { display: no
           <li><span><span data-l="en">Atmosphere</span><span data-l="es">Ambiente</span></span><b>5/5</b></li>
         </ul>
       </div>
-      <p><span data-l="en">Mabys and I went to Porthos for Valentine's Day dinner, and it hit the spot. The steak came out cooked exactly how we asked, the staff checked on us without hovering, and the place has a relaxed pub feel. If you are craving a proper steak in Santa Marta, this is an easy pick.</span><span data-l="es">Mabys y yo fuimos a cenar a Porthos el Día de San Valentín, y fue justo lo que queríamos. La carne llegó al punto que pedimos, el personal estuvo pendiente sin agobiar y el lugar tiene un ambiente de pub relajado. Si tiene antojo de una buena carne en Santa Marta, es una opción fácil.</span></p>
+      <p><span data-l="en">We went to Porthos for Valentine's Day dinner, and it hit the spot. The steak came out cooked exactly how we asked, the staff checked on us without hovering, and the place has a relaxed pub feel. If you are craving a proper steak in Santa Marta, this is an easy pick.</span><span data-l="es">Fuimos a cenar a Porthos el Día de San Valentín, y fue justo lo que queríamos. La carne llegó al punto que pedimos, el personal estuvo pendiente sin agobiar y el lugar tiene un ambiente de pub relajado. Si tiene antojo de una buena carne en Santa Marta, es una opción fácil.</span></p>
       <div class="sec"><h3><span data-l="en">What we ordered</span><span data-l="es">Lo que pedimos</span></h3>
         <table class="order">
           <thead><tr><th><span data-l="en">Dish or drink</span><span data-l="es">Plato o bebida</span></th><th><span data-l="en">Price (COP)</span><span data-l="es">Precio (COP)</span></th></tr></thead>

diff --git a/get-featured/index.html b/get-featured/index.html
@@ -157,17 +157,9 @@ html[lang="mix"] .es-first [data-l="es"] { display: inline !important; }
       <img src="../img/head.jpg" alt="Christopher">
       <h2>Christopher</h2>
       <div class="role">Santa Marta</div>
-      <div class="langs"><span>English</span></div>
+      <div class="langs"><span>English</span><span>Español</span></div>
       <p><span data-l="en">For English-speaking businesses in Santa Marta.</span><span data-l="es">Para negocios de habla inglesa en Santa Marta.</span></p>
       <div class="acts"><a class="act act-gold" href="https://wa.me/13054405175" target="_blank" rel="noopener">WhatsApp</a><a class="act" href="mailto:christopher@christopherthegoodgringo.com"><span data-l="en">Email</span><span data-l="es">Correo</span></a></div>
-    </div>
-    <div class="person es-first">
-      <img src="../img/head_mabys.jpg" alt="Mabys Sequea-Quintana">
-      <h2>Mabys</h2>
-      <div class="role">Santa Marta</div>
-      <div class="langs"><span>Español</span></div>
-      <p><span data-l="en">For Spanish-speaking businesses in Santa Marta.</span><span data-l="es">Para negocios de habla hispana en Santa Marta.</span></p>
-      <div class="acts"><a class="act act-gold" href="https://wa.me/573003831359" target="_blank" rel="noopener">WhatsApp</a><a class="act" href="mailto:mabys@christopherthegoodgringo.com"><span data-l="en">Email</span><span data-l="es">Correo</span></a></div>
     </div>
     <div class="person es-first">
       <div class="ini" role="img" aria-label="Daniel Felipe">DF</div>
